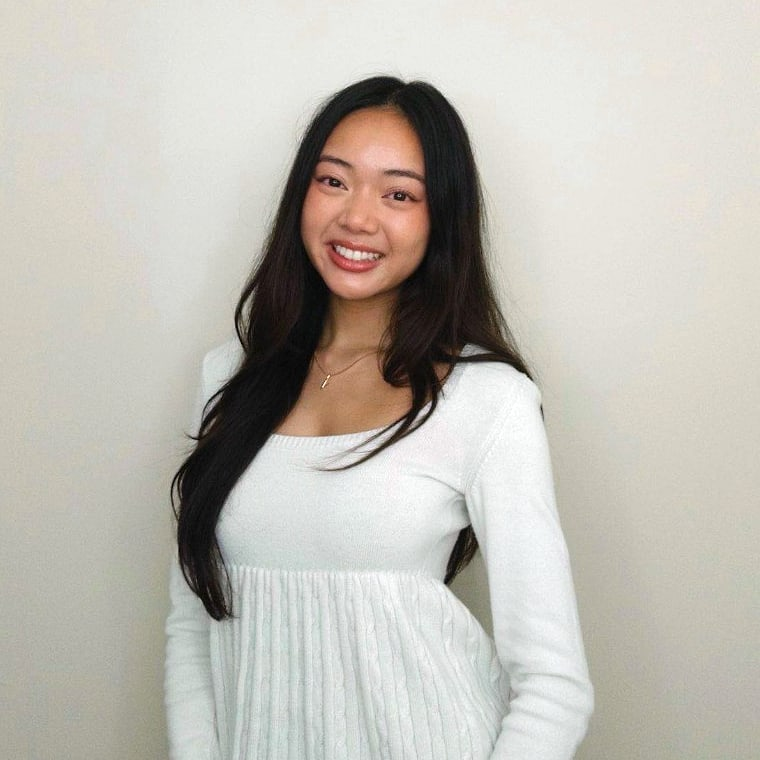
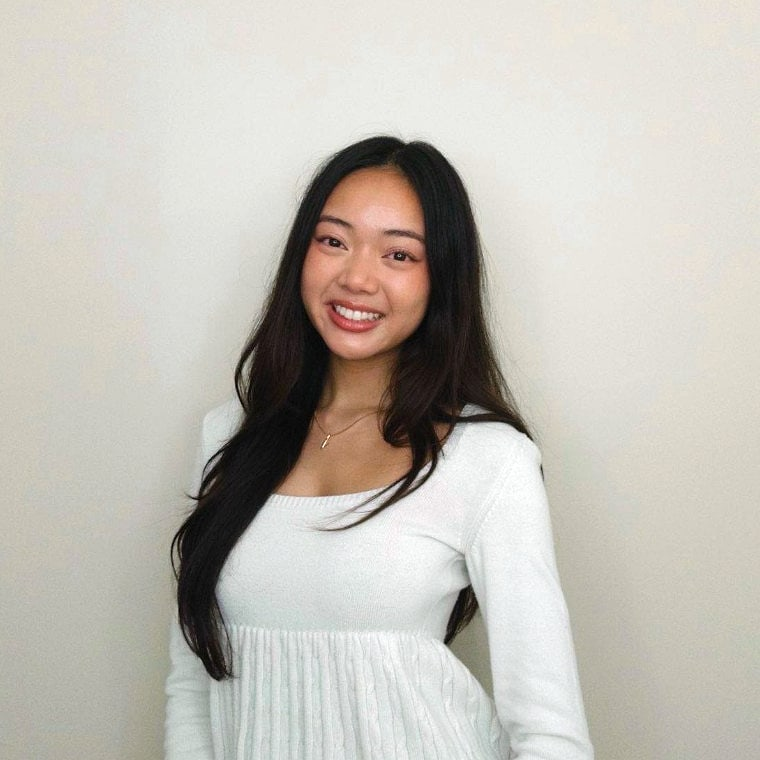
Lower the subject slightly in the portrait crop

Changed region(s): [[0.2118, 0.0908, 0.7868, 1.0], [0.3934, 0.9684, 0.4237, 1.0]]

diff --git a/index.html b/index.html
@@ -129,7 +129,7 @@
         <figure class="paper polaroid reveal" style="--paper: var(--white); --tilt: -2.5deg">
           <span class="tape tape-top"></span>
           <div class="polaroid-photo">
-            <img src="images/vivian.jpg?v=3" alt="Portrait of Vivian Tran" width="760" height="760" loading="lazy" decoding="async" />
+            <img src="images/vivian.jpg?v=4" alt="Portrait of Vivian Tran" width="760" height="760" loading="lazy" decoding="async" />
           </div>
           <figcaption>Springfield, VA</figcaption>
         </figure>
